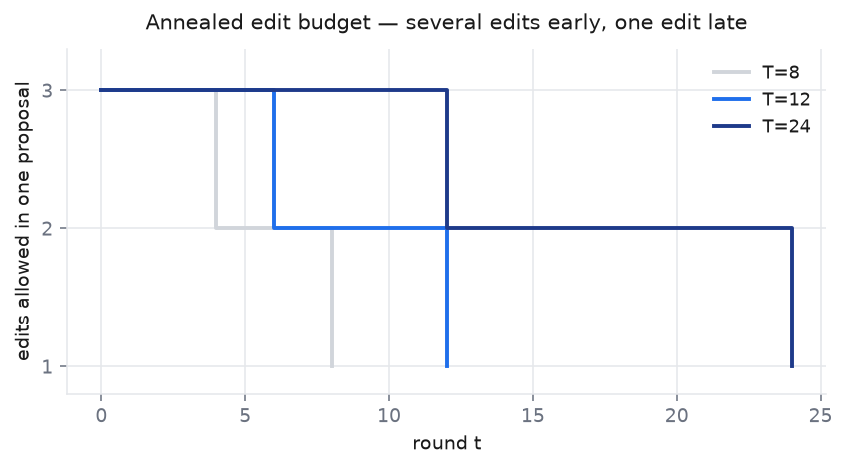
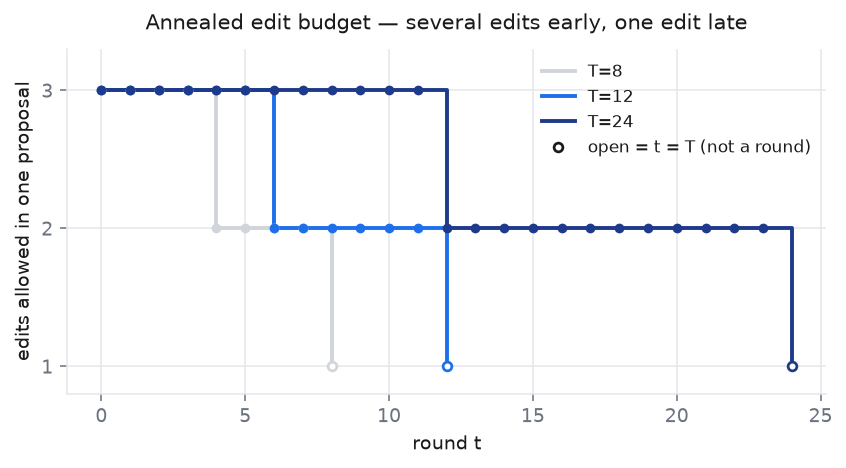
Make fig09 distinguish the rounds a run executes from the anneal's endpoint
fig09 drew the edit-budget curve over t = 0..T, which is the formula's full
domain, without distinguishing it from the rounds a T-round run actually
executes - there are T of those, t = 0..T-1. That is the same conflation that
put a 13-entry schedule for a 12-round run into the README, and the figure was
where a reader would go to check the README's claim, so it certified the error
rather than catching it.

Executed rounds now carry filled markers and t = T is drawn open, with a legend
entry naming it "not a round". A first attempt used a floating annotation with
an arrow; rendering it showed the text landing on the T=24 step and the T=8
decline, so the explanation moved into the legend, where a proxy handle cannot
collide with the data. That is the same defect and the same fix as fig12's
annotation.

diff --git a/tools/plot.py b/tools/plot.py
@@ -494,7 +494,15 @@ def fig_toolcall_reward(scan: dict) -> None:
 
 
 def fig_edit_budget() -> None:
-    """The annealed edit budget, from the same function the loop calls."""
+    """The annealed edit budget, from the same function the loop calls.
+
+    The curve is drawn over ``t = 0..T`` so the anneal's shape and its endpoint
+    are both visible, but only ``t = 0..T-1`` are rounds a run executes: a
+    ``T``-round loop calls ``edit_budget`` ``T`` times. Drawing the whole curve
+    without saying so is how a 13-entry schedule for a 12-round run reached the
+    README, so the executed rounds carry filled markers and ``t = T`` is drawn
+    open and annotated as the limit rather than a round.
+    """
     plt = _plt()
     sys.path.insert(0, str(ROOT / "src"))
     from multiharness.rsi.ledger import edit_budget
@@ -504,11 +512,18 @@ def fig_edit_budget() -> None:
         xs = list(range(T + 1))
         ys = [edit_budget(t, T, 1, 3) for t in xs]
         ax.step(xs, ys, where="post", color=color, lw=2.0, label=f"T={T}")
+        # Filled = rounds the loop actually runs; open = the formula at t = T.
+        ax.plot(xs[:-1], ys[:-1], "o", color=color, ms=4.0, zorder=3)
+        ax.plot(xs[-1:], ys[-1:], "o", color=color, ms=4.5, mfc="white", mew=1.4, zorder=3)
+    # The explanation goes in the legend rather than as floating text: the middle
+    # of this axes is where the T=24 step lives, and an annotation there lands on
+    # top of it. A proxy handle cannot collide with the data.
+    ax.plot([], [], "o", color=INK, ms=4.5, mfc="white", mew=1.4, label="open = t = T (not a round)")
     ax.set_xlabel("round t")
     ax.set_ylabel("edits allowed in one proposal")
     ax.set_yticks([1, 2, 3])
     ax.set_ylim(0.8, 3.3)
-    ax.legend(fontsize=9)
+    ax.legend(fontsize=8.5, loc="upper right")
     ax.set_title("Annealed edit budget — several edits early, one edit late", fontsize=11, pad=10)
     _save(plt, fig, "fig09_edit_budget.png", "analytic; ceil(b_min + (b_max-b_min)/2 (1+cos(pi t/T)))")
 
